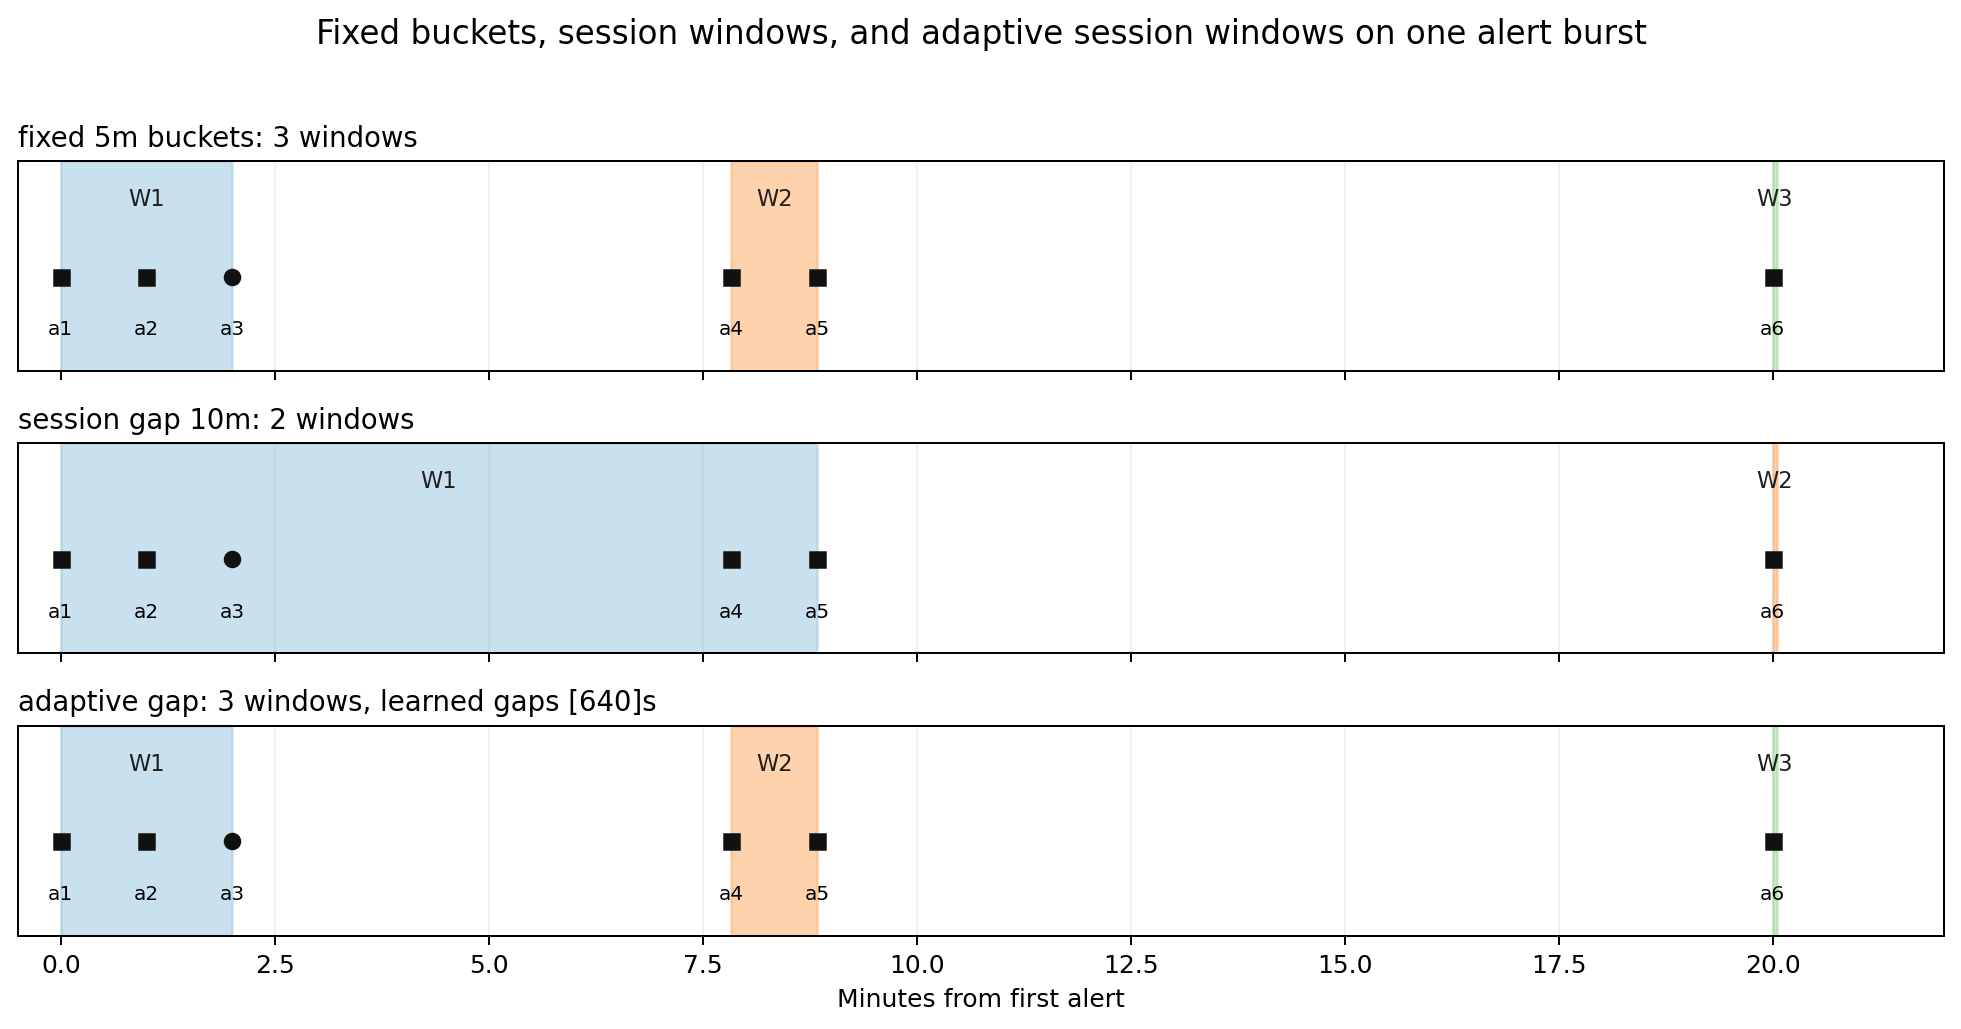
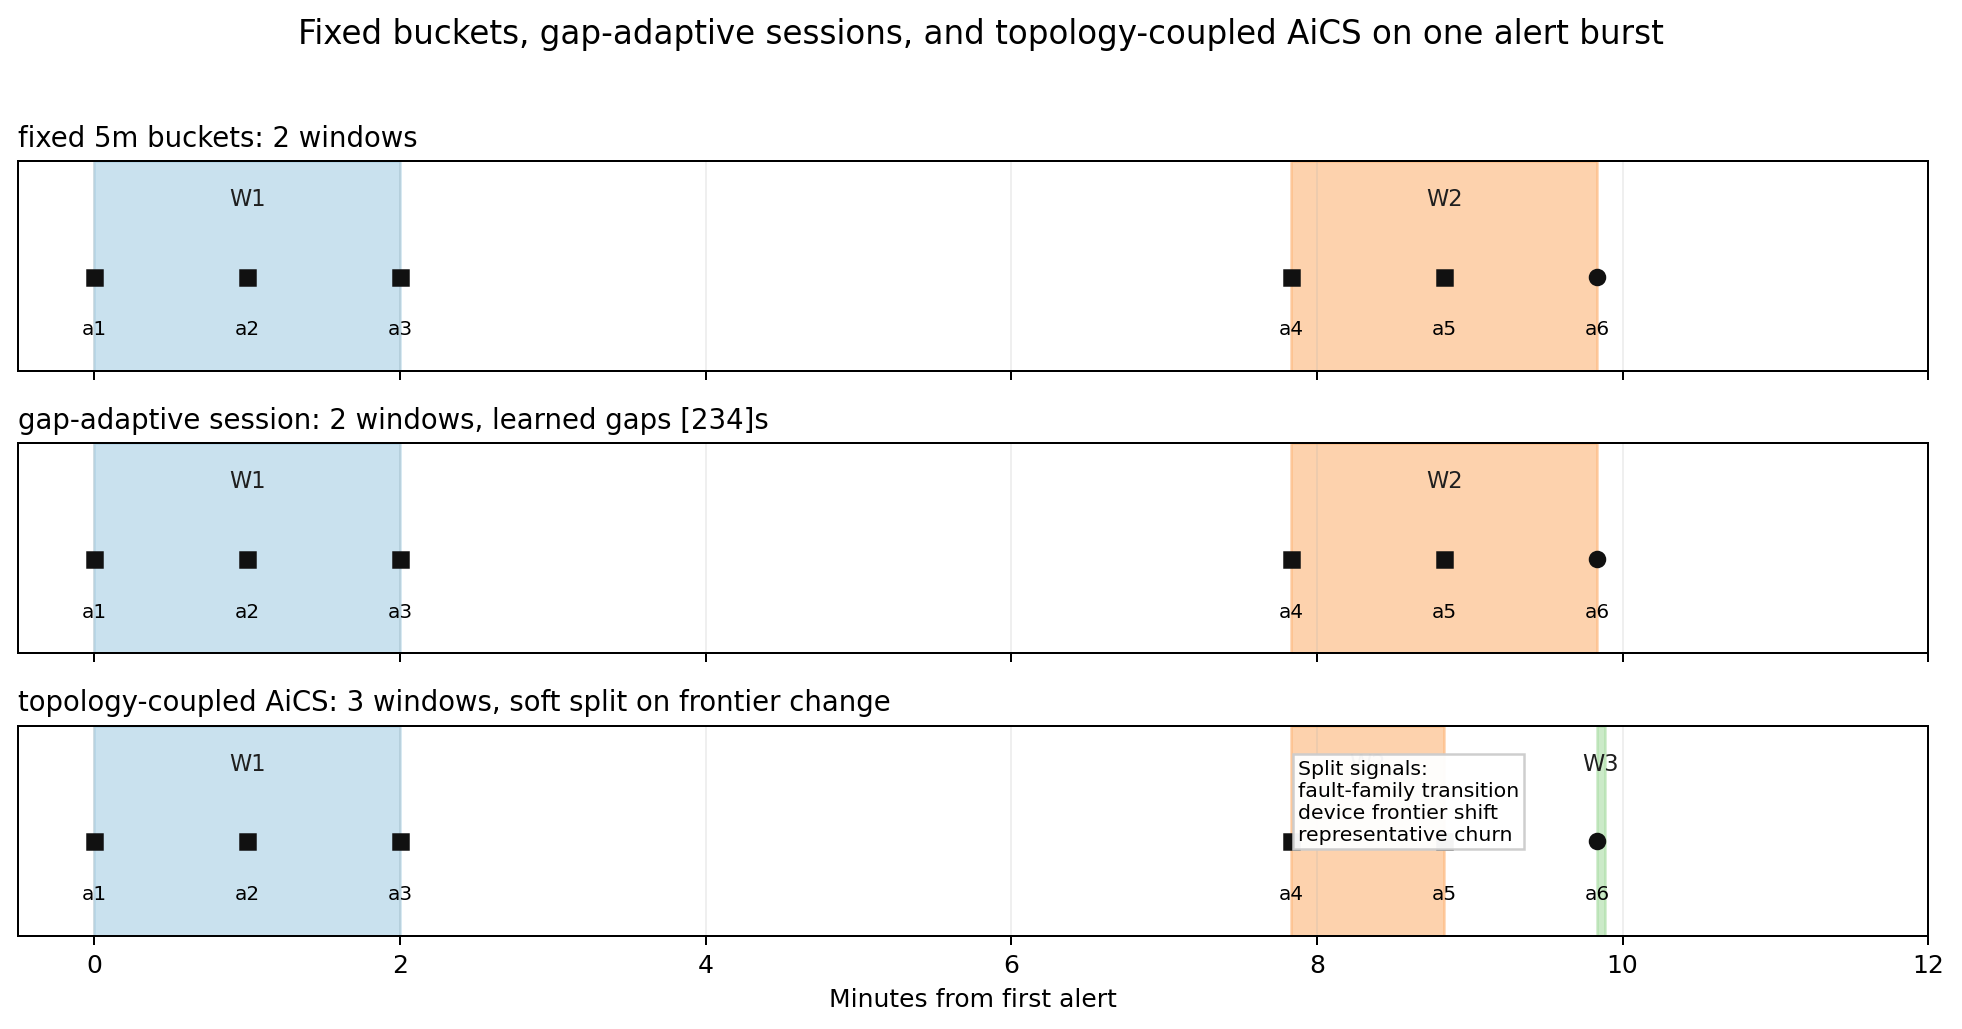
Refine boundary benchmark and explainer figures

diff --git a/core/benchmark/window_boundary_algorithm_benchmark.py b/core/benchmark/window_boundary_algorithm_benchmark.py
@@ -11,6 +11,8 @@ from statistics import mean, pstdev
 from typing import Any
 
 import matplotlib.pyplot as plt
+from matplotlib.patches import Rectangle
+from mpl_toolkits.axes_grid1.inset_locator import inset_axes
 
 from core.aiops_agent.alert_reasoning_runtime.budget_controller import select_windows_under_budget
 from core.aiops_agent.alert_reasoning_runtime.incident_window import build_incident_window_index
@@ -268,74 +270,177 @@ def _render_plot(rows: list[dict[str, Any]], *, recommended_name: str, output_pn
         "aics-evidence": "P",
         "aics": "X",
     }
-    fig, ax = plt.subplots(figsize=(9.2, 6.1))
-    important = {
-        "fixed-600",
-        "session-900x1800",
-        "adaptive-600x1800",
-        "aics-topology-500x1200",
-        "aics-evidence-600x1800",
-        "aics-hybrid-600x1800",
-    }
+    fig, ax = plt.subplots(figsize=(10.2, 6.4))
+    by_name = {str(row["name"]): row for row in rows}
     label_offsets = {
-        "fixed-600": (8, 10),
-        "session-900x1800": (8, 8),
-        "adaptive-600x1800": (8, 8),
-        "aics-topology-500x1200": (8, 8),
-        "aics-evidence-600x1800": (8, 10),
-        "aics-hybrid-600x1800": (8, 4),
+        "fixed-600": (-172, -40),
+        "session-900x1800": (-26, -20),
+        "adaptive-600x1800": (10, 12),
+        "aics-topology-500x1200": (8, 12),
     }
+    topology_inset_offsets = {
+        "aics-topology-500x1200": (6, 6),
+        "aics-topology-600x1800": (6, -14),
+        "aics-topology-900x1800": (8, 6),
+    }
+    main_labels = {"fixed-600", "session-900x1800", "adaptive-600x1800", "aics-topology-500x1200"}
+    short_names = {
+        "fixed-600": "Fixed 10m Bucket",
+        "session-900x1800": "Long Session",
+        "adaptive-600x1800": "Gap-Adaptive",
+        "aics-topology-500x1200": "Topology-Coupled AiCS",
+        "aics-topology-600x1800": "Topology Wide",
+        "aics-topology-900x1800": "Topology Loose",
+        "aics-evidence-600x1800": "Evidence Default",
+        "aics-evidence-900x1800": "Evidence Loose",
+        "aics-hybrid-600x1800": "Hybrid Default",
+        "aics-hybrid-900x1800": "Hybrid Loose",
+    }
+    family_rows: dict[str, list[dict[str, Any]]] = defaultdict(list)
+    for row in rows:
+        family_rows[str(row["window_mode"])].append(row)
+
+    for family, items in family_rows.items():
+        if len(items) < 2:
+            continue
+        items_sorted = sorted(items, key=lambda item: int(item["lcore"]["strict_budget_20"]["external_calls"]))
+        ax.plot(
+            [item["lcore"]["strict_budget_20"]["external_calls"] for item in items_sorted],
+            [item["lcore"]["strict_budget_20"]["high_value_window_recall"] * 100.0 for item in items_sorted],
+            color=colors.get(family, "#666666"),
+            linewidth=1.2,
+            alpha=0.45,
+            zorder=2,
+        )
 
     for row in rows:
         color = colors.get(str(row["window_mode"]), "#333333")
-        marker = "*" if str(row["name"]) == recommended_name else markers.get(str(row["window_mode"]), "o")
-        bubble = 80 + 700 * float(row["lcore"]["single_alert_rate"])
+        marker = markers.get(str(row["window_mode"]), "o")
         edgecolor = "#111111" if str(row["name"]) == recommended_name else "white"
-        linewidth = 1.0 if str(row["name"]) == recommended_name else 0.8
+        linewidth = 1.2 if str(row["name"]) == recommended_name else 0.9
+        x = row["lcore"]["strict_budget_20"]["external_calls"]
+        y = row["lcore"]["strict_budget_20"]["high_value_window_recall"] * 100.0
         ax.scatter(
-            row["lcore"]["risk_budget_20"]["external_calls"],
-            row["lcore"]["strict_budget_20"]["high_value_window_recall"] * 100.0,
+            x,
+            y,
             color=color,
-            s=300 if marker == "*" else bubble,
+            s=220 if str(row["name"]) == recommended_name else 155,
             marker=marker,
-            alpha=0.9,
+            alpha=0.92,
             edgecolors=edgecolor,
             linewidths=linewidth,
-            zorder=4 if str(row["name"]) == recommended_name else 3,
+            zorder=5 if str(row["name"]) == recommended_name else 4,
         )
-        if str(row["name"]) in important or str(row["name"]) == recommended_name:
+        if str(row["name"]) in main_labels:
             offset = label_offsets.get(str(row["name"]), (6, 6))
             ax.annotate(
-                str(row["display_name"]),
-                (
-                    row["lcore"]["risk_budget_20"]["external_calls"],
-                    row["lcore"]["strict_budget_20"]["high_value_window_recall"] * 100.0,
-                ),
-                fontsize=8.2,
+                short_names.get(str(row["name"]), str(row["display_name"]))
+                + "\n"
+                + f"{int(row['lcore']['incident_windows'])} windows, "
+                + f"{row['lcore']['single_alert_rate'] * 100.0:.1f}% single",
+                (x, y),
+                fontsize=8.0,
                 xytext=offset,
                 textcoords="offset points",
+                arrowprops={"arrowstyle": "-", "lw": 0.7, "color": color, "alpha": 0.7},
+                bbox={
+                    "facecolor": "white",
+                    "edgecolor": "#dddddd",
+                    "boxstyle": "round,pad=0.22",
+                    "alpha": 0.95,
+                },
             )
 
-    ax.set_title("Window Boundary Algorithms on LCORE-D")
-    ax.set_xlabel("Risk-budget 20% external calls")
+    recommended = by_name[recommended_name]
+    recommended_x = recommended["lcore"]["strict_budget_20"]["external_calls"]
+    recommended_y = recommended["lcore"]["strict_budget_20"]["high_value_window_recall"] * 100.0
+    ax.axvline(recommended_x, color="#bdbdbd", linestyle="--", linewidth=0.9, zorder=1)
+    ax.axhline(recommended_y, color="#bdbdbd", linestyle=":", linewidth=0.9, zorder=1)
+    topology_rect = Rectangle(
+        (356, 77.3),
+        78,
+        8.0,
+        fill=False,
+        edgecolor=colors["aics-topology"],
+        linewidth=1.2,
+        linestyle="--",
+        alpha=0.7,
+        zorder=1,
+    )
+    ax.add_patch(topology_rect)
+    ax.annotate(
+        "better",
+        xy=(288, 90.4),
+        xytext=(338, 88.9),
+        fontsize=8.3,
+        color="#444444",
+        arrowprops={"arrowstyle": "->", "lw": 0.9, "color": "#666666"},
+    )
+
+    ax.set_title("Boundary Algorithms Under a Shared Strict-Budget Slice")
+    ax.set_xlabel("Strict-budget 20% external calls")
     ax.set_ylabel("Strict-budget 20% high-value recall (%)")
-    ax.grid(alpha=0.25)
-    ax.set_xlim(430, 610)
+    ax.grid(alpha=0.22)
+    ax.set_xlim(255, 610)
     ax.set_ylim(74, 93)
-    ax.axvline(500, color="#bbbbbb", linestyle="--", linewidth=0.8, zorder=1)
-    ax.axhline(84.52, color="#bbbbbb", linestyle=":", linewidth=0.8, zorder=1)
     ax.text(
         0.02,
-        0.98,
-        "Marker size: single-alert window rate\n"
-        "Color/shape: boundary family\n"
-        "RCAEval transfer: all dynamic methods keep 375 windows; fixed bucket yields 377",
+        0.91,
+        "Shared regime: strict-budget 20%\n"
+        "Colored links trace variants within each family\n"
+        "Green box marks the selected family region\n"
+        "Guides mark the recommended dynamic point\n"
+        "RCAEval transfer: dynamic methods keep 375 windows",
         transform=ax.transAxes,
         ha="left",
         va="top",
-        fontsize=8.0,
+        fontsize=7.8,
         bbox={"facecolor": "white", "edgecolor": "#cccccc", "pad": 2.5, "alpha": 0.95},
     )
+
+    inset = inset_axes(ax, width="42%", height="42%", loc="lower right", borderpad=1.2)
+    topology_rows = sorted(
+        family_rows["aics-topology"],
+        key=lambda item: int(item["lcore"]["strict_budget_20"]["external_calls"]),
+    )
+    inset.plot(
+        [item["lcore"]["strict_budget_20"]["external_calls"] for item in topology_rows],
+        [item["lcore"]["strict_budget_20"]["high_value_window_recall"] * 100.0 for item in topology_rows],
+        color=colors["aics-topology"],
+        linewidth=1.2,
+        alpha=0.5,
+        zorder=2,
+    )
+    for row in topology_rows:
+        x = row["lcore"]["strict_budget_20"]["external_calls"]
+        y = row["lcore"]["strict_budget_20"]["high_value_window_recall"] * 100.0
+        inset.scatter(
+            x,
+            y,
+            color=colors["aics-topology"],
+            marker=markers["aics-topology"],
+            s=90 if str(row["name"]) == recommended_name else 68,
+            alpha=0.95,
+            edgecolors="#111111" if str(row["name"]) == recommended_name else "white",
+            linewidths=0.8,
+            zorder=5 if str(row["name"]) == recommended_name else 4,
+        )
+        inset.annotate(
+            short_names.get(str(row["name"]), str(row["display_name"]))
+            + "\n"
+            + f"{int(row['lcore']['incident_windows'])}w, {row['lcore']['single_alert_rate'] * 100.0:.1f}% single",
+            (x, y),
+            fontsize=6.2,
+            xytext=topology_inset_offsets.get(str(row["name"]), (5, 4)),
+            textcoords="offset points",
+        )
+    inset.axvline(recommended_x, color="#bdbdbd", linestyle="--", linewidth=0.8, zorder=1)
+    inset.axhline(recommended_y, color="#bdbdbd", linestyle=":", linewidth=0.8, zorder=1)
+    inset.set_xlim(358, 434)
+    inset.set_ylim(77.2, 85.2)
+    inset.set_title("Selected family: topology-coupled", fontsize=7.2)
+    inset.grid(alpha=0.18)
+    inset.tick_params(labelsize=6.8)
 
     handles = [
         plt.Line2D(
@@ -350,7 +455,7 @@ def _render_plot(rows: list[dict[str, Any]], *, recommended_name: str, output_pn
         )
         for mode, color in colors.items()
     ]
-    ax.legend(handles=handles, loc="lower right", frameon=False, ncol=2)
+    ax.legend(handles=handles, loc="upper center", bbox_to_anchor=(0.75, 1.0), frameon=False, ncol=2)
     fig.tight_layout()
     output_png.parent.mkdir(parents=True, exist_ok=True)
     fig.savefig(output_png, dpi=200, bbox_inches="tight")
@@ -363,11 +468,11 @@ def _display_name(name: str) -> str:
         "session-900x1800": "Long Session",
         "adaptive-600x1800": "Gap-Adaptive Session",
         "aics-topology-500x1200": "Topology-Coupled AiCS",
-        "aics-topology-600x1800": "Topology-Coupled Wide",
-        "aics-topology-900x1800": "Topology-Coupled Loose",
-        "aics-evidence-600x1800": "Evidence-Coupled AiCS",
-        "aics-evidence-900x1800": "Evidence-Coupled Loose",
-        "aics-hybrid-600x1800": "Hybrid AiCS",
+        "aics-topology-600x1800": "Topology Wide",
+        "aics-topology-900x1800": "Topology Loose",
+        "aics-evidence-600x1800": "Evidence Default",
+        "aics-evidence-900x1800": "Evidence Loose",
+        "aics-hybrid-600x1800": "Hybrid Default",
         "aics-hybrid-900x1800": "Hybrid Loose",
     }
     return labels.get(name, name)

diff --git a/documentation/scripts/render_adaptive_windowing_explainer.py b/documentation/scripts/render_adaptive_windowing_explainer.py
@@ -51,10 +51,10 @@ def _sample_alerts() -> list[dict]:
     return [
         _alert("a1", ts=base + timedelta(seconds=0), device="CORE-R2", scenario="transient_fault"),
         _alert("a2", ts=base + timedelta(seconds=60), device="CORE-R3", scenario="transient_fault"),
-        _alert("a3", ts=base + timedelta(seconds=120), device="CORE-R4", scenario="induced_fault"),
+        _alert("a3", ts=base + timedelta(seconds=120), device="CORE-R4", scenario="transient_fault"),
         _alert("a4", ts=base + timedelta(seconds=470), device="CORE-R5", scenario="transient_fault"),
         _alert("a5", ts=base + timedelta(seconds=530), device="CORE-R6", scenario="transient_fault"),
-        _alert("a6", ts=base + timedelta(seconds=1200), device="CORE-R7", scenario="transient_fault"),
+        _alert("a6", ts=base + timedelta(seconds=590), device="CORE-R9", scenario="induced_fault"),
     ]
 
 
@@ -63,8 +63,8 @@ def main() -> None:
     base_ts = datetime.fromisoformat(str(alerts[0]["alert_ts"]).replace("Z", "+00:00"))
     configs = [
         ("fixed 5m buckets", {"window_sec": 300, "window_mode": "fixed", "max_window_sec": 300}),
-        ("session gap 10m", {"window_sec": 600, "window_mode": "session", "max_window_sec": 900}),
-        ("adaptive gap", {"window_sec": 600, "window_mode": "adaptive", "max_window_sec": 900}),
+        ("gap-adaptive session", {"window_sec": 600, "window_mode": "adaptive", "max_window_sec": 900}),
+        ("topology-coupled AiCS", {"window_sec": 500, "window_mode": "aics-topology", "max_window_sec": 1200}),
     ]
     colors = ["#9ecae1", "#fdae6b", "#a1d99b", "#fdd0a2"]
 
@@ -100,14 +100,30 @@ def main() -> None:
         if kwargs["window_mode"] == "adaptive":
             gaps = sorted({int(window.get("group_idle_gap_sec") or 0) for window in windows})
             summary += f", learned gaps {gaps}s"
+        elif kwargs["window_mode"] == "aics-topology":
+            summary += ", soft split on frontier change"
         axis.set_title(f"{title}: {summary}", loc="left", fontsize=11)
         axis.set_ylim(0.0, 1.0)
         axis.set_yticks([])
         axis.grid(axis="x", alpha=0.2)
+        if kwargs["window_mode"] == "aics-topology":
+            axis.text(
+                0.67,
+                0.84,
+                "Split signals:\n"
+                "fault-family transition\n"
+                "device frontier shift\n"
+                "representative churn",
+                transform=axis.transAxes,
+                ha="left",
+                va="top",
+                fontsize=8.2,
+                bbox={"facecolor": "white", "edgecolor": "#cccccc", "pad": 2.0, "alpha": 0.96},
+            )
 
     axes[-1].set_xlabel("Minutes from first alert")
-    axes[-1].set_xlim(-0.5, 22.0)
-    fig.suptitle("Fixed buckets, session windows, and adaptive session windows on one alert burst", y=0.98, fontsize=13)
+    axes[-1].set_xlim(-0.5, 12.0)
+    fig.suptitle("Fixed buckets, gap-adaptive sessions, and topology-coupled AiCS on one alert burst", y=0.98, fontsize=13)
     fig.tight_layout(rect=(0, 0, 1, 0.96))
     OUTPUT_PNG.parent.mkdir(parents=True, exist_ok=True)
     fig.savefig(OUTPUT_PNG, dpi=180, bbox_inches="tight")
